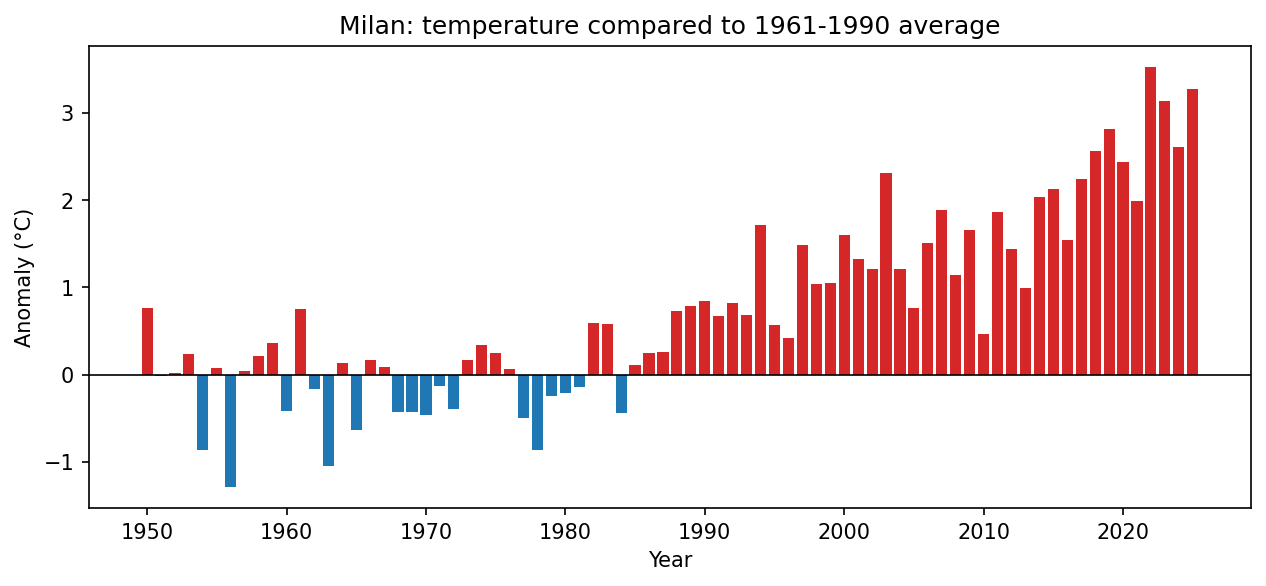
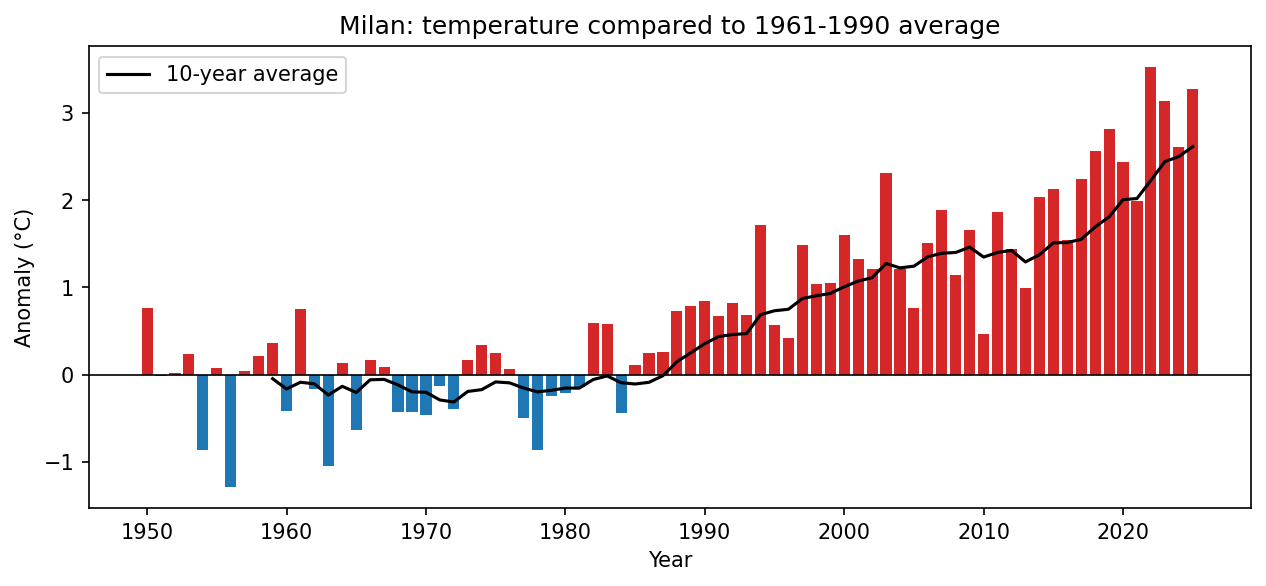
10year window avg plots are added

diff --git a/app.py b/app.py
@@ -33,8 +33,8 @@ def show(fig):
     plt.close(fig)
 
 
-st.set_page_config(page_title="Weather Report", page_icon="🌡", layout="wide")
-st.title("🌡 Is Milan getting hotter?")
+st.set_page_config(page_title="Weather Report", layout="wide")
+st.title("Is Milan getting hotter?")
 st.write("Climate trends from 1950 to 2025, using daily data from the "
          "Open-Meteo Historical Weather API.")
 
@@ -42,34 +42,50 @@ with st.spinner("Loading weather data..."):
     yearly, monthly = get_data()
 
 all_cities = sorted(yearly["city"].unique())
+first_year = int(yearly["year"].min())
+last_year = int(yearly["year"].max())
 
 st.sidebar.header("Settings")
 cities = st.sidebar.multiselect("Cities to compare", all_cities, default=all_cities)
 focus_city = st.sidebar.selectbox("City for detailed view", all_cities,
                                   index=all_cities.index("Milan"))
+start, end = st.sidebar.slider("Years", first_year, last_year, (first_year, last_year))
+window = st.sidebar.slider("Moving average (years)", 2, 20, 10)
 
 if not cities:
     st.warning("Select at least one city in the sidebar.")
     st.stop()
 
-summary = city_summary(yearly)
+if end - start < 20:
+    st.warning("Please choose a period of at least 20 years.")
+    st.stop()
+
+yearly = yearly[yearly["year"].between(start, end)]
+monthly = monthly[monthly["year"].between(start, end)]
+period = min(30, (end - start + 1) // 2)
+
+summary = city_summary(yearly, period=period)
 row = summary[summary["city"] == focus_city].iloc[0]
 
 st.header(f"{focus_city} at a glance")
 col1, col2, col3 = st.columns(3)
 col1.metric("Warming trend", f"{row['warming_per_decade']} °C / decade")
-col2.metric("Last 30 years average", f"{row['recent_avg_temp']} °C",
-            f"{row['difference']:+} °C vs first 30 years", delta_color="inverse")
+col2.metric(f"Last {period} years average", f"{row['recent_avg_temp']} °C",
+            f"{row['difference']:+} °C vs first {period} years", delta_color="inverse")
 col3.metric("Hot days trend", f"{row['hot_days_change_per_decade']:+} days / decade")
 
 st.header("Comparing cities")
 show(plot_temperature(yearly, cities))
 show(plot_hot_days(yearly, cities))
+
 st.subheader("Summary table")
-st.dataframe(summary[summary["city"].isin(cities)], hide_index=True)
+table = summary[summary["city"].isin(cities)]
+st.dataframe(table, hide_index=True)
+st.download_button("Download table as CSV", table.to_csv(index=False),
+                   file_name="climate_summary.csv", mime="text/csv")
 
 st.header(f"{focus_city} in detail")
-show(plot_anomaly(yearly, focus_city))
+show(plot_anomaly(yearly, focus_city, window))
 show(plot_monthly_heatmap(monthly, focus_city))
 
-st.caption("Hot day = maximum temperature ≥ 30°C. Anomaly baseline: 1961–1990.")
+st.caption("Hot day = maximum temperature of 30 °C or more. Anomaly baseline: 1961 to 1990.")

diff --git a/src/plots.py b/src/plots.py
@@ -36,8 +36,8 @@ def plot_temperature(yearly, cities):
     return fig
 
 
-def plot_anomaly(yearly, city):
-    """Bar chart of yearly temperature anomaly: red = warmer, blue = colder.
+def plot_anomaly(yearly, city, window=10):
+    """Bar chart of yearly temperature anomaly with a moving average line.
 
     Parameters
     ----------
@@ -45,6 +45,8 @@ def plot_anomaly(yearly, city):
         Yearly data with an 'anomaly' column (from analysis.add_anomaly()).
     city : str
         City to show.
+    window : int
+        Number of years used for the moving average.
 
     Returns
     -------
@@ -53,13 +55,16 @@ def plot_anomaly(yearly, city):
     """
     data = yearly[yearly["city"] == city]
     colors = ["tab:red" if value > 0 else "tab:blue" for value in data["anomaly"]]
+    moving_avg = data["anomaly"].rolling(window).mean()
 
     fig, ax = plt.subplots(figsize=(10, 4))
     ax.bar(data["year"], data["anomaly"], color=colors)
+    ax.plot(data["year"], moving_avg, color="black", label=f"{window}-year average")
     ax.axhline(0, color="black", linewidth=0.8)
     ax.set_xlabel("Year")
     ax.set_ylabel("Anomaly (°C)")
     ax.set_title(f"{city}: temperature compared to 1961-1990 average")
+    ax.legend()
     return fig
 
 

diff --git a/README.md b/README.md
@@ -59,6 +59,7 @@ To open the app:
 
 ```bash
 python -m streamlit run app.py
+In the app you can choose the cities, the years and the length of the moving average. You can also download the results table as a CSV file.
 ```
 
 You can also run each part alone:
@@ -110,10 +111,6 @@ What I found:
 ## Problems I had
 
 - At first, only Milan and Rome downloaded. The API stopped me because I sent too many requests too fast. I added a pause of 5 seconds between cities, and after that all four cities worked.
-
-## Use of AI
-
-I used AI tools to help me plan the project, explain things I did not know, and check my code. I tested all the code myself and I can explain every part of it.
 
 ## License
 
